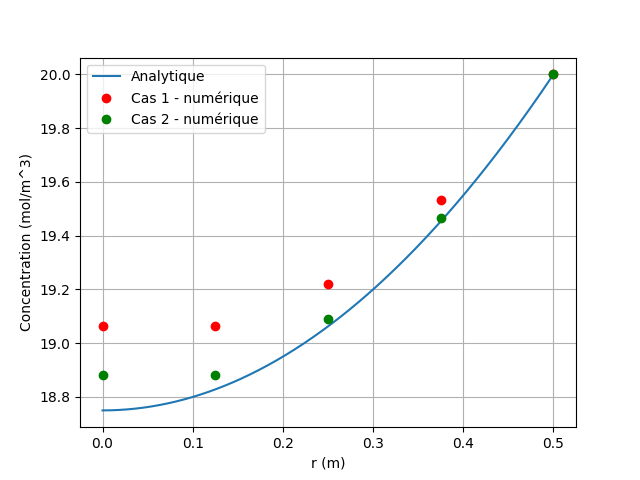
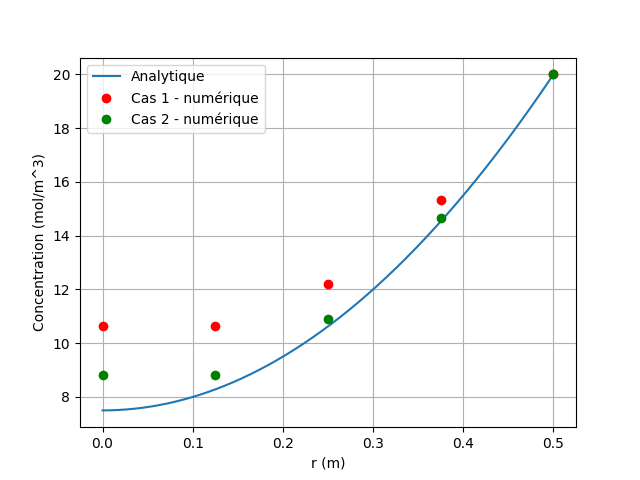
Correction de Deff

diff --git a/Devoir 1/src/main.py b/Devoir 1/src/main.py
@@ -49,7 +49,7 @@ vectL1 = []
 vectL2 = []
 vectLinf = []
 
-for N in range(1000, 9000, 1000):
+for N in range(1000, 10000, 1000):
     a1,b1,c1,a2,b2,c2,r_i,delta_r = functions.Coefficients(N)
     vectDelta_r.append(delta_r)
     Concentrations_CAS1=functions.Concentrations(a1,b1,c1,N)
@@ -63,14 +63,14 @@ for N in range(1000, 9000, 1000):
 
 plt.figure()
 plt.plot(vectDelta_r, vectL1, 'o', color='red', label='L1')
-plt.plot(vectDelta_r, vectL2, 'o', color='green', label='L2')
+#plt.plot(vectDelta_r, vectL2, 'o', color='green', label='L2')
 #plt.plot(vectDelta_r, vectLinf, 'o', color='blue', label='Linf')
 # Regression lineaire de L1
 a,b = np.polyfit(np.log(vectDelta_r), np.log(vectL1), 1)
 plt.plot(vectDelta_r, np.exp(a*np.log(vectDelta_r)+b), color='red', label='Regression L1')
 # Regression lineaire de L2
-c,d = np.polyfit(np.log(vectDelta_r), np.log(vectL2), 1)
-plt.plot(vectDelta_r, np.exp(c*np.log(vectDelta_r)+d), color='green', label='Regression L2')
+#c,d = np.polyfit(np.log(vectDelta_r), np.log(vectL2), 1)
+#plt.plot(vectDelta_r, np.exp(c*np.log(vectDelta_r)+d), color='green', label='Regression L2')
 # Regression lineaire de Linf
 #e,f = np.polyfit(np.log(vectDelta_r), np.log(vectLinf), 1)
 #plt.plot(vectDelta_r, np.exp(e*np.log(vectDelta_r)+f), label='Regression Linf')

diff --git a/Devoir 1/src/functions.py b/Devoir 1/src/functions.py
@@ -37,9 +37,9 @@ def C_analytique_N(N):
     return x_Nvalues,y_Nvalues
 
 
-#####################################################
-# Calcul des coefficients pour Ntot points CAS 1 et 2
-#####################################################
+##################################################
+# Calcul des coefficients pour N points CAS 1 et 2
+##################################################
 def Coefficients(N):
     delta_r=R/(N-1)
     r_i=np.zeros(N)          # Vecteur des N points r_i également espacées

diff --git a/Devoir 1/src/config.py b/Devoir 1/src/config.py
@@ -2,7 +2,7 @@
 # Définition des constantes
 ###########################
 Ntot = 5          # nombre de point pour la méthodes des différences finies
-Deff = 10e-10     # en m^2/s
+Deff = 1e-10     # en m^2/s
 Ce = 20           # en mol/m^3
 D = 1             # en m
 R = D/2           # en m
